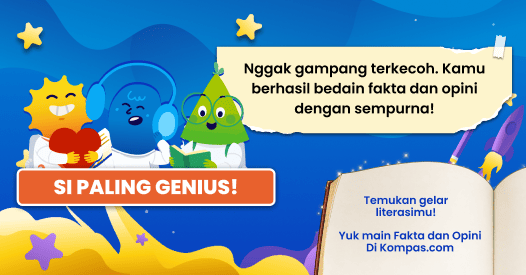
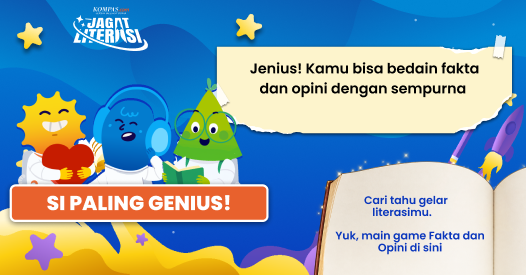
update image share dan char result

diff --git a/style.css b/style.css
@@ -79,6 +79,23 @@ button:hover {
     0 2px 8px rgb(36 35 41 / 4%),
     inset 0 1px 0 rgb(255 255 255 / 80%); */
 }
+.jagat-logo {
+  position: absolute;
+  top: 10px;
+  left: 0;
+  right: 0;
+  margin: 0 auto;
+  width: 80px;
+  height: auto;
+  z-index: 4;
+  pointer-events: none;
+}
+.game:has(.play:not([hidden])) .jagat-logo {
+  top: 35px;
+}
+.game:has(.instruction:not([hidden])) .jagat-logo {
+  display: none;
+}
 .game-toolbar {
   position: absolute;
   top: 0;
@@ -95,10 +112,11 @@ button:hover {
   pointer-events: none;
 }
 .game-toolbar-buttons {
-  width: 100%;
+  width: 95%;
   display: flex;
   justify-content: flex-end;
   gap: 4px;
+  margin: 0 auto;
 }
 .game-sound {
   margin-right: auto;
@@ -248,10 +266,9 @@ body:has(.play:not([hidden])) {
 }
 
 .welcome-logo {
-    /* object-position: center bottom; */
-    width: 360px;
+    width: 320px;
     position: absolute;
-    top: 30px;
+    top: 60px;
     height: auto;
     left: 0;
     right: 0;
@@ -340,6 +357,7 @@ body:has(.play:not([hidden])) {
   align-items: center;
   gap: 0;
   width: 100%;
+  margin-top: 40px;
 }
 .play-top {
   display: flex;
@@ -432,7 +450,7 @@ body:has(.play:not([hidden])) {
   z-index: 1;
   width: 100%;
   max-width: 100%;
-  height: 400px;
+  height: 350px;
   padding: 18px 28px 80px;
   display: flex;
   flex-direction: column;
@@ -718,11 +736,11 @@ dialog p:not(.eyebrow) {
   line-height: 0;
 }
 .result-logo img {
-  display: block;
-  width: 320px;
-  height: auto;
-  margin: 0 auto;
-  margin-top: 30px;
+    display: block;
+    width: 320px;
+    height: auto;
+    margin: 0 auto;
+    margin-top: 65px;
 }
 .result-restart img {
   display: block;
@@ -748,39 +766,39 @@ dialog p:not(.eyebrow) {
 }
 /* Customize width and height independently for each character. */
 .result-character[data-character="terkecoh"] {
-  width: 266px;
-  height: auto;
-  position: absolute;
-  left: 0;
-  right: 0;
-  margin: 0 auto;
-  top: -30px;
-}
-.result-character[data-character="jeli"] {
-    width: 250px;
+    width: 220px;
     height: auto;
     position: absolute;
-    top: -9px;
+    left: 0;
+    right: 0;
+    margin: 0 auto;
+    top: 10px;
+}
+.result-character[data-character="jeli"] {
+    width: 186px;
+    height: auto;
+    position: absolute;
+    top: 25px;
     left: 0;
     right: 0;
     margin: 0 auto;
 }
 .result-character[data-character="paling-jeli"] {
-    width: 230px;
+    width: 180px;
     height: auto;
     position: absolute;
     left: 0;
     right: 0;
-    top: -50px;
+    top: -5px;
     margin: 0 auto;
 }
 .result-character[data-character="jenius"] {
-    width: 340px;
+  width: 290px;
     height: auto;
     position: absolute;
     left: 0;
     right: 0;
-    top: -30px;
+    top: 10px;
     margin: 0 auto;
 }
 #result-message {
@@ -924,7 +942,7 @@ dialog p:not(.eyebrow) {
   }
   dialog #feedback-description {
     width: 100%;
-    padding: 0 50px;
+    padding: 0 70px;
   }
 }
 

diff --git a/script.js b/script.js
@@ -377,8 +377,18 @@ async function answer(choice) {
     sourceLink.rel = 'noopener noreferrer';
     explanation.append('\n\nSumber: ', sourceLink);
   }
-  $('#next').setAttribute('aria-label',
-    current === questions.length - 1 ? 'Lihat hasil' : correct ? 'Soal berikutnya' : 'Lanjut');
+  const isLastQuestion = current === questions.length - 1;
+  $('#next').hidden = isLastQuestion;
+  $('#next').setAttribute('aria-label', correct ? 'Soal berikutnya' : 'Lanjut');
+  const feedbackVisual = $('.feedback-visual');
+  feedbackVisual.tabIndex = isLastQuestion ? 0 : -1;
+  if (isLastQuestion) {
+    feedbackVisual.setAttribute('role', 'button');
+    feedbackVisual.setAttribute('aria-label', 'Lihat hasil');
+  } else {
+    feedbackVisual.removeAttribute('role');
+    feedbackVisual.removeAttribute('aria-label');
+  }
   const nextImage = $('#next img');
   nextImage.src = correct ? 'img/button-next-question.png' : 'img/button-lanjut.png';
   await Promise.all([
@@ -387,7 +397,7 @@ async function answer(choice) {
     nextImage.decode().catch(() => {}),
   ]);
   dialog.showModal();
-  $('#next').focus();
+  (isLastQuestion ? feedbackVisual : $('#next')).focus();
 }
 
 const resultCharacters = {
@@ -581,6 +591,13 @@ dialog.addEventListener('click', (event) => {
   nextQuestion();
 });
 dialog.addEventListener('cancel', (event) => event.preventDefault());
+$('.feedback-visual').addEventListener('keydown', (event) => {
+  if (event.target !== event.currentTarget || current !== questions.length - 1) return;
+  if (event.key === 'Enter' || event.key === ' ') {
+    event.preventDefault();
+    nextQuestion();
+  }
+});
 
 card.addEventListener('keydown', (event) => {
   if (event.key === 'ArrowLeft' || event.key === 'ArrowRight') {

diff --git a/index.html b/index.html
@@ -7,12 +7,24 @@
       content="width=device-width, initial-scale=1, viewport-fit=cover"
     />
     <meta name="theme-color" content="#ffffff" />
-    <title>Fakta atau Opini? — Kuis</title>
+    <title>Quiz Fakta atau Opini?  | Jagat Literasi - Kompas.com</title>
+    
+    <meta name="description" content="Fakta atau Opini? Yuk asah pengetahuanmu! Biar ga cuma paham, tapi memaknai lebih dalam. Temukan mana fakta dan mana opini!" />
+    <meta property="og:type" content="website" />
+    <meta property="og:title" content="Quiz Fakta atau Opini?  | Jagat Literasi - Kompas.com" />
+    <meta property="og:description" content="Fakta atau Opini? Yuk asah pengetahuanmu! Biar ga cuma paham, tapi memaknai lebih dalam. Temukan mana fakta dan mana opini!" />
+    <meta property="og:image" content="img/share.png" />
+
+    <meta name="twitter:card" content="summary_large_image" />
+    <meta name="twitter:title" content="Quiz Fakta atau Opini?  | Jagat Literasi - Kompas.com" />
+    <meta name="twitter:description" content="Fakta atau Opini? Yuk asah pengetahuanmu! Biar ga cuma paham, tapi memaknai lebih dalam. Temukan mana fakta dan mana opini!" />
+    <meta name="twitter:image" content="img/share.png" />
     <link rel="stylesheet" href="style.css" />
     <script src="script.js" defer></script>
   </head>
   <body>
     <main class="game" aria-label="Kuis fakta dan opini">
+      <img class="jagat-logo" src="img/jagat.png" alt="Kompas.com Jagat Literasi" />
       <div class="game-toolbar">
         <div id="question-progress" class="question-progress" role="progressbar" aria-label="Soal terjawab" aria-valuemin="0" aria-valuenow="0" hidden></div>
         <div class="game-toolbar-buttons">

diff --git a/UPDATE-2026-09-17.md b/UPDATE-2026-09-17.md
@@ -1,0 +1,88 @@
+# Catatan update — 17 September 2026
+
+Dokumentasi berdasarkan pekerjaan dalam percakapan dan pemeriksaan file lokal terhadap commit `0bca90d`. Perubahan lokal tambahan dicatat berdasarkan diff; waktu dan pembuat setiap perubahan tidak dapat dipastikan dari diff saja.
+
+## Perubahan yang aktif
+
+### 1. Pertanyaan terakhir
+
+File: `script.js`.
+
+- Tombol Next disembunyikan pada pertanyaan terakhir.
+- Popup jawaban tetap ditampilkan. Klik popup untuk melanjutkan ke hasil.
+- Area visual popup mendapat fokus pada pertanyaan terakhir, dengan label aksesibilitas `Lihat hasil`.
+- Enter atau Spasi pada area tersebut juga membuka hasil.
+- Tombol Next tetap tersedia pada pertanyaan sebelumnya, termasuk setelah mengulang kuis.
+
+### 2. Judul dan metadata
+
+File: `index.html`.
+
+- Judul: `Quiz Fakta atau Opini?  | Jagat Literasi - Kompas.com`.
+- Deskripsi: `Fakta atau Opini? Yuk asah pengetahuanmu! Biar ga cuma paham, tapi memaknai lebih dalam. Temukan mana fakta dan mana opini!`.
+- Open Graph: judul, deskripsi, tipe `website`, dan gambar `img/share.png`.
+- Twitter Card: judul, deskripsi, gambar `img/share.png`, dan tipe `summary_large_image`.
+- Gambar metadata masih menggunakan path relatif sebagaimana tersimpan di HTML. Pratinjau berbagi pada URL publik belum diuji.
+
+### 3. Logo Jagat Literasi
+
+File: `index.html`, `style.css`; aset: `img/jagat.png`.
+
+- Logo bersama ditambahkan di dalam kontainer game.
+- Posisi absolute, rata tengah dengan `left: 0`, `right: 0`, dan `margin: 0 auto`; lebar 80px.
+- Posisi awal yang diminta adalah `top: 0`; nilai pada file saat dokumentasi dibuat adalah `top: 10px`.
+- Saat gameplay: `top: 35px`.
+- Saat instruction: disembunyikan.
+- Tampil pada welcome, gameplay, dan result.
+- Aset `img/jagat.png` tersedia, tetapi masih berstatus untracked di Git saat pemeriksaan.
+
+### 4. Penyesuaian styling lokal
+
+File: `style.css`. Perubahan berikut terlihat pada diff lokal terhadap commit acuan:
+
+- Lebar toolbar menjadi 95% dengan margin tengah.
+- Logo welcome: lebar 320px dan `top: 60px`.
+- Area gameplay mendapat `margin-top: 40px`.
+- Tinggi kartu pertanyaan menjadi 350px.
+- Margin atas gambar logo result menjadi 65px.
+- Padding horizontal deskripsi feedback pada aturan responsif menjadi 70px.
+
+Ukuran dan posisi karakter result saat ini:
+
+| Karakter | Lebar | Top |
+| --- | --- | --- |
+| Terkecoh | 220px | 10px |
+| Jeli | 200px | 30px |
+| Paling jeli | 180px | -5px |
+| Jenius | 290px | 10px |
+
+## Pekerjaan sementara yang sudah dihapus
+
+Panel `Preview hasil (temporary)` sempat ditambahkan untuk membuka empat karakter result tanpa menyelesaikan kuis, lengkap dengan skor contoh dan tombol kembali ke awal.
+
+Sesuai permintaan, panel beserta HTML, CSS, dan event handler JavaScript telah dihapus. Tidak ada kontrol preview sementara pada file saat ini.
+
+## Status tombol mute pada result
+
+Dalam percakapan, `script.js` sempat diperbarui agar tombol mute tampil di gameplay dan result serta mengatur `resultSound.muted` mengikuti status mute.
+
+Namun, pemeriksaan file saat dokumentasi dibuat menunjukkan perubahan tersebut sudah tidak ada:
+
+- `showScreen()` masih menyembunyikan tombol mute pada semua scene selain `play`.
+- Handler tombol mute hanya mengatur `music.muted`; tidak ada pengaturan `resultSound.muted`.
+
+Jadi, fitur mute pada result belum aktif pada versi file saat ini. Pemeriksaan dokumentasi ini tidak menerapkan ulang perubahan tersebut.
+
+## Pemeriksaan
+
+- `node --check script.js` berhasil.
+- Referensi kontrol preview sementara sudah tidak ditemukan di HTML, CSS, dan JavaScript.
+- Pengujian visual di browser dan pengujian audio interaktif belum dilakukan pada pemeriksaan dokumentasi ini.
+
+## File terkait
+
+- `index.html`: metadata dan elemen logo.
+- `style.css`: posisi logo dan penyesuaian tampilan.
+- `script.js`: perilaku pertanyaan terakhir.
+- `img/jagat.png`: aset logo yang digunakan.
+- `UPDATE-2026-09-17.md`: dokumentasi ini.
